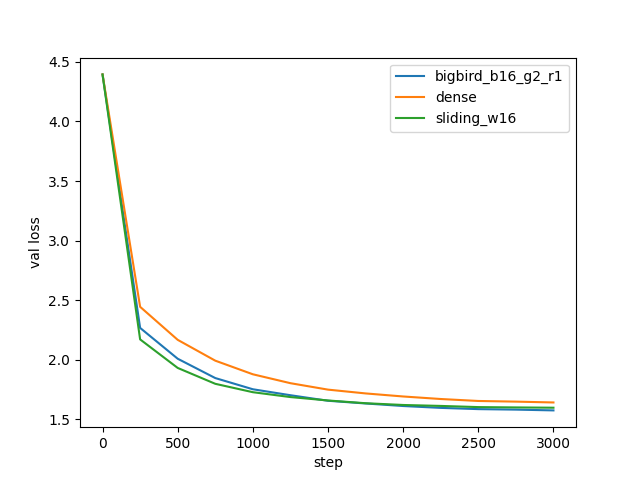
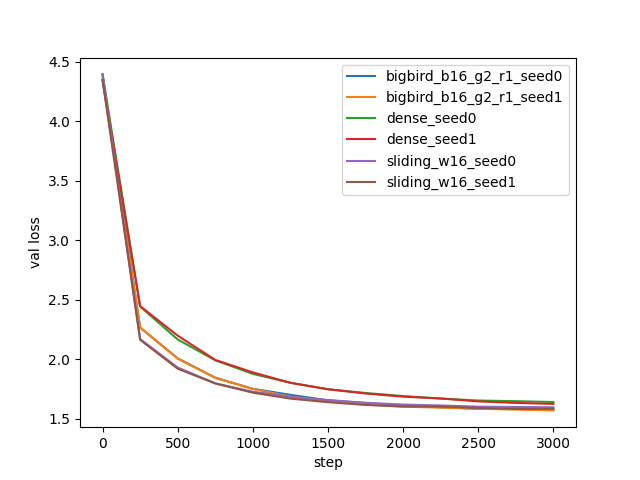
YAYA 1.6 seed 1 runs + 2-seed plot, ordering held on both seeds

diff --git a/train/train.py b/train/train.py
@@ -81,6 +81,8 @@ def main():
     name = {"dense": "dense",
             "sliding": f"sliding_w{args.window}",
             "bigbird": f"bigbird_b{args.block}_g{args.n_global}_r{args.n_random}"}[args.attn]
+
+    name = f"{name}_seed{args.seed}"   # seed in filename so runs dont overwrite each other
     n_params = sum(prm.numel() for prm in model.parameters())
     gpu = torch.cuda.get_device_name(0) if device == "cuda" else "cpu"
     print(f"{name}: {n_params/1e6:.2f}M params, {gpu}, iters={args.iters}")
